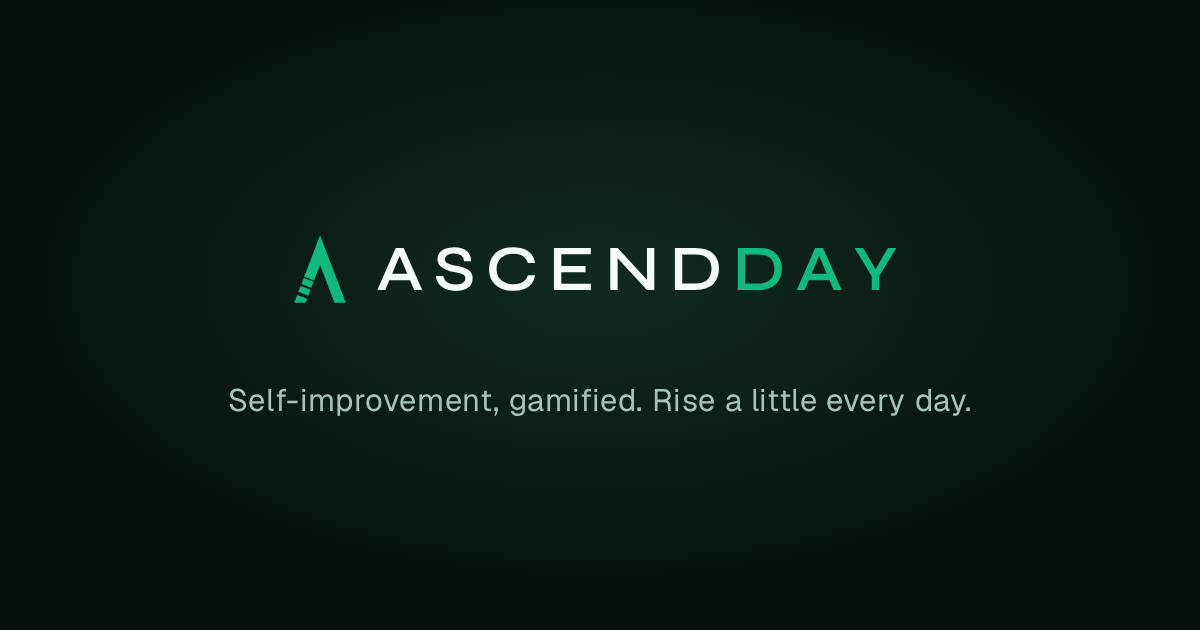
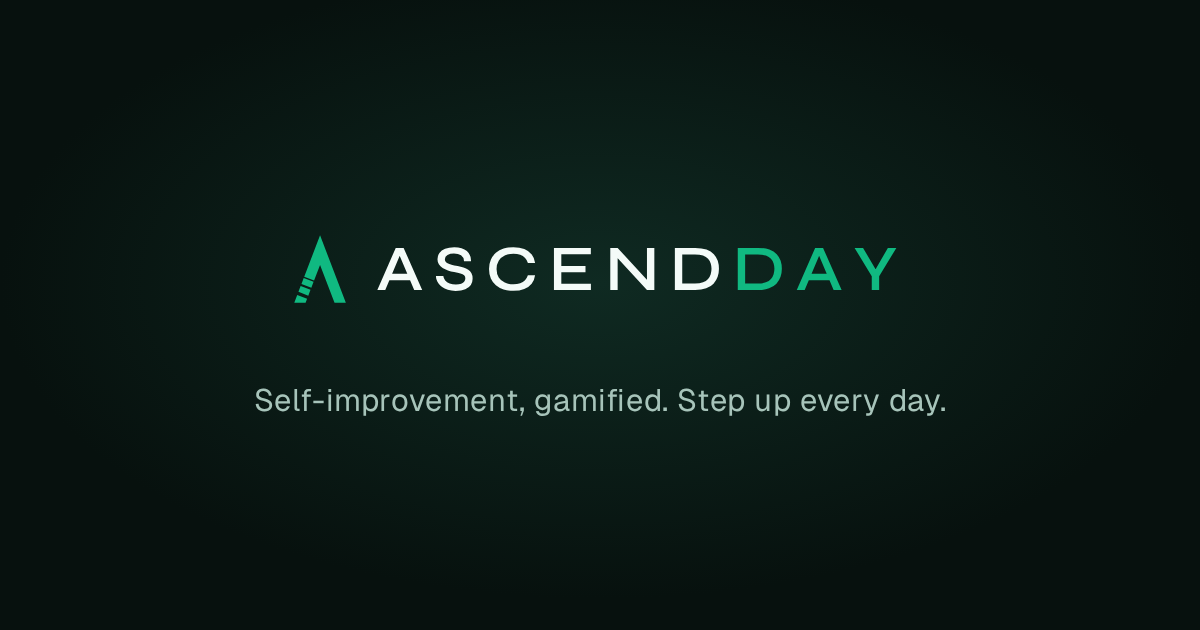
Brand: change the slogan to "Step up every day." and re-render its OG images

Changed region(s): [[0.185, 0.6032, 0.8017, 0.6635]]

diff --git a/index.html b/index.html
@@ -38,17 +38,17 @@
     <title>AscendDay – Self-Improvement</title>
 
     <!-- Link previews (Open Graph / Twitter). og:image must be an absolute URL. -->
-    <meta name="description" content="AscendDay is a gamified self-improvement app. Rise a little every day." />
+    <meta name="description" content="AscendDay is a gamified self-improvement app. Step up every day." />
     <meta property="og:type" content="website" />
     <meta property="og:title" content="AscendDay" />
-    <meta property="og:description" content="AscendDay is a gamified self-improvement app. Rise a little every day." />
-    <meta property="og:image" content="https://ascendday.com/og-image.png?v=6" />
+    <meta property="og:description" content="AscendDay is a gamified self-improvement app. Step up every day." />
+    <meta property="og:image" content="https://ascendday.com/og-image.png?v=7" />
     <meta property="og:image:width" content="1200" />
     <meta property="og:image:height" content="630" />
     <meta name="twitter:card" content="summary_large_image" />
     <meta name="twitter:title" content="AscendDay" />
-    <meta name="twitter:description" content="AscendDay is a gamified self-improvement app. Rise a little every day." />
-    <meta name="twitter:image" content="https://ascendday.com/og-image.png?v=6" />
+    <meta name="twitter:description" content="AscendDay is a gamified self-improvement app. Step up every day." />
+    <meta name="twitter:image" content="https://ascendday.com/og-image.png?v=7" />
     <script>
       (function() {
         try {

diff --git a/src/marketing/routes.ts b/src/marketing/routes.ts
@@ -73,7 +73,7 @@ export const MARKETING_ROUTES: MarketingRoute[] = [
     description:
       'AscendDay (formerly Ascend): a free gamified self-improvement app. Track habits, journal, read and train, earn points, climb weekly, monthly and 90-day leagues.',
     ogImage: 'home',
-    ogAlt: 'AscendDay – Gamified Self-Improvement. Rise a little every day.',
+    ogAlt: 'AscendDay – Gamified Self-Improvement. Step up every day.',
     index: true,
     updated: SITE_COPY_UPDATED,
   },
@@ -166,7 +166,7 @@ export const MARKETING_ROUTES: MarketingRoute[] = [
     ogTitle: 'Page not found',
     description: 'This page doesn’t exist on AscendDay. Go to the home page or see every feature.',
     ogImage: 'home',
-    ogAlt: 'AscendDay – Gamified Self-Improvement. Rise a little every day.',
+    ogAlt: 'AscendDay – Gamified Self-Improvement. Step up every day.',
     index: false,
     updated: SITE_COPY_UPDATED,
   },

diff --git a/src/marketing/site.ts b/src/marketing/site.ts
@@ -25,7 +25,7 @@ export const SITE_DESCRIPTOR = `${SITE_NAME} – Gamified Self-Improvement`;
 export const SITE_ALTERNATE_NAMES = [SITE_FORMER_NAME, 'Ascend Day', 'Ascend App', 'Ascend – Gamified Self-Improvement'];
 
 /** The slogan since the AscendDay name (2026-10-25): ascend = rise, day = daily. Hero, footer, og images. */
-export const SITE_TAGLINE = 'Rise a little every day.';
+export const SITE_TAGLINE = 'Step up every day.';
 
 /** The maker, as the Terms name him (lib/legal.ts LEGAL_OPERATOR). */
 export const SITE_MAKER = 'Zakria Khan';

diff --git a/src/marketing/head.ts b/src/marketing/head.ts
@@ -15,7 +15,7 @@ export interface PageAssets {
 }
 
 /** Bump with the files in public/og so link previews fetch the new image. */
-export const OG_IMAGE_VERSION = 3;
+export const OG_IMAGE_VERSION = 4;
 
 export const escapeHtml = (value: string): string =>
   value.replace(/&/g, '&amp;').replace(/</g, '&lt;').replace(/>/g, '&gt;').replace(/"/g, '&quot;');
